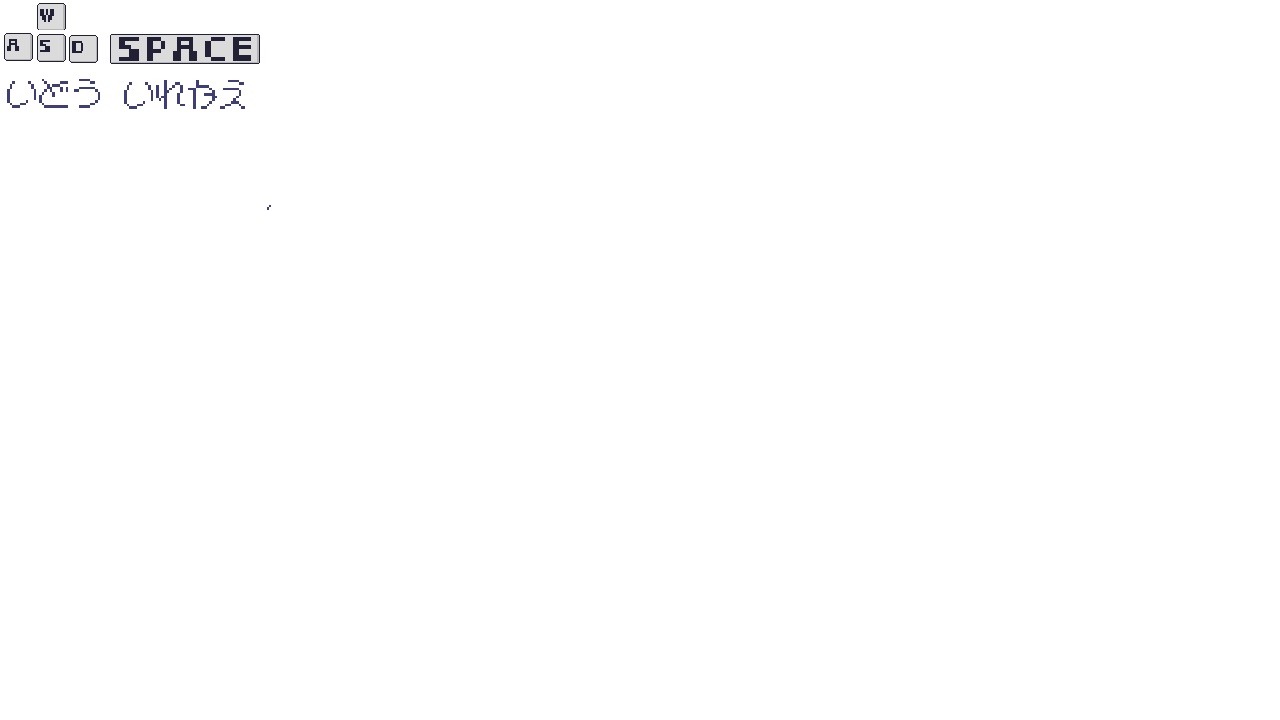
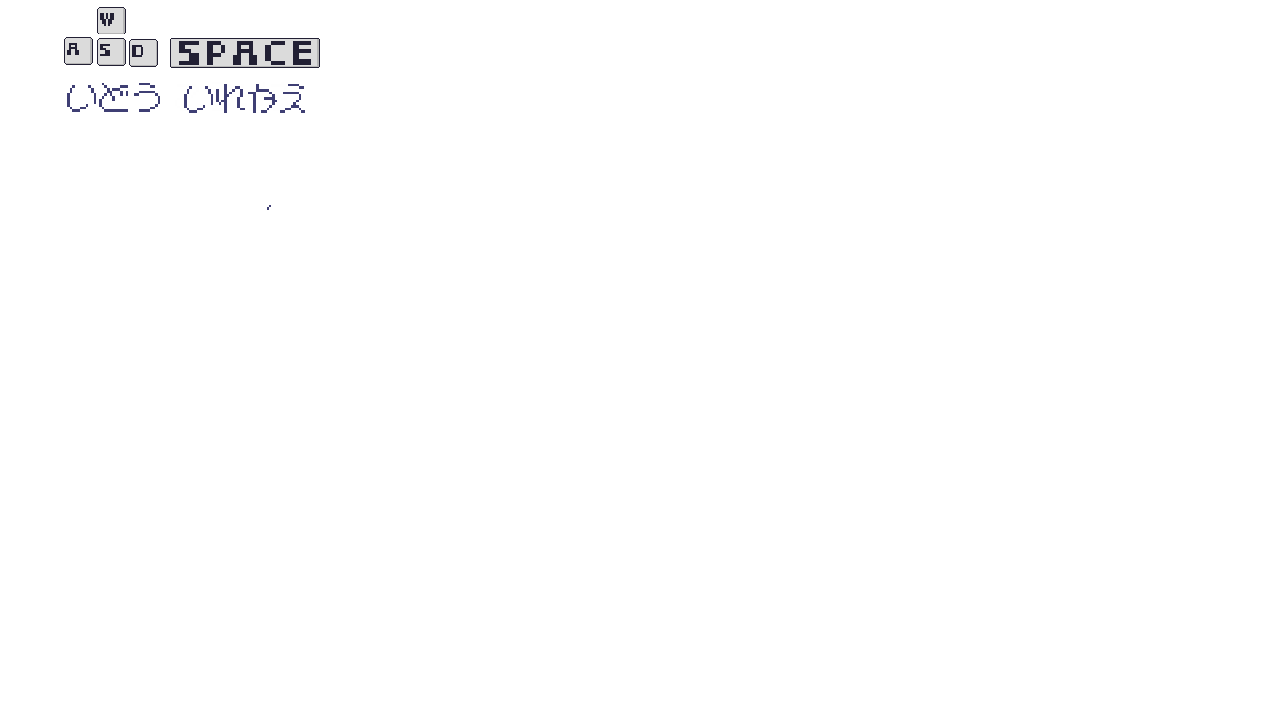
パズル説明追加

Changed region(s): [[0.0, 0.0, 0.25, 0.1528]]

diff --git a/Puzzle.h b/Puzzle.h
@@ -98,6 +98,8 @@ private:
 	int cherryTexture_ = Novice::LoadTexture("./Resources/cherry.png");
 	int frameTexture_ = Novice::LoadTexture("./Resources/frame.png");
 	int bgTexture_ = Novice::LoadTexture("./Resources/puzzle_bg.png");
-
+	int manualTexture_ = Novice::LoadTexture("./Resources/puzzle_sousa.png");
+	int puzzle_exTexture_ = Novice::LoadTexture("./Resources/puzzle_ex.png");
+	
 };
 

diff --git a/Puzzle.cpp b/Puzzle.cpp
@@ -21,6 +21,8 @@ void Puzzle::Draw()
 {
 	//背景描画
 	Novice::DrawSprite(0, 0, bgTexture_, 1.0f, 1.0f, 0.0f, WHITE);
+	Novice::DrawSprite(0, 0,manualTexture_, 1.0f, 1.0f, 0.0f, WHITE);
+	Novice::DrawSprite(800, 0, puzzle_exTexture_, 1.0f, 1.0f, 0.0f, WHITE);
 
 	//お手本描画
 	for (int i = 0; i < 4; i++) {
